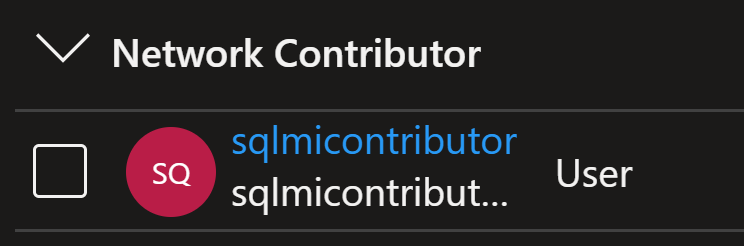
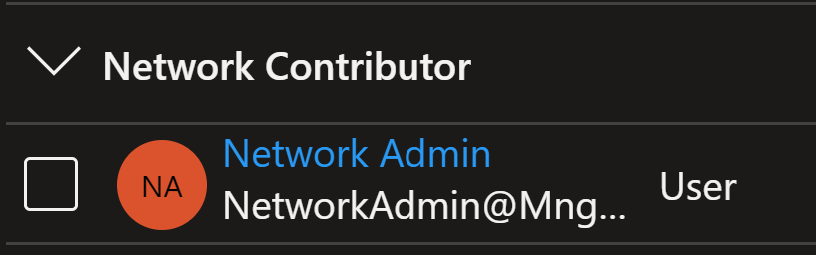
deployworking

diff --git a/README.md b/README.md
@@ -22,19 +22,15 @@ Create a user-assigned managed identity in a Resource group
 
 EngineeringOpsAdmin Creates Resource group for SQL MI vNet (if not already exists) and Resource group to SQL MI instance (if not already exists)
 
-`Note I use a single user for all role assignment but these would typically be different users`
-
-- EngineeringOpsAdmin adds a role assignment of “SQL Managed Instance Contributor” in the SQL MI vNet Resource group and selects the EngineeringOps user performing the deployment
+- EngineeringOpsAdmin adds a role assignment of “SQL Managed Instance Contributor” in the SQL MI vNet Resource group (i.e. ContosoAzureEastUSsqlmiVNetTest3ContosoAzureEastUSsqlmiVNetTest3) and selects the EngineeringOps user performing the deployment
 
 ![smicontributor](https://raw.githubusercontent.com/DataSnowman/sqlmideployment/main/images/smicontributor.png)
 
-- EngineeringOpsAdmin adds a role assignment of “Contributor” or maybe "Network Contributor" in the SQL MI vNet Resource group and selects the NetworkAdmin user performing the vNet deployment
-
-![contributor](https://raw.githubusercontent.com/DataSnowman/sqlmideployment/main/images/contributor.png)
+- EngineeringOpsAdmin adds a role assignment of "Network Contributor" in the SQL MI vNet Resource group (i.e. ContosoAzureEastUSsqlmiVNetTest3ContosoAzureEastUSsqlmiVNetTest3) and selects the NetworkAdmin user performing the vNet deployment
 
 ![netcontributor](https://raw.githubusercontent.com/DataSnowman/sqlmideployment/main/images/netcontributor.png)
 
-- EngineeringOpsAdmin adds a role assignment of “SQL Managed Instance Contributor” in the SQL MI instance Resource group and selects the EngineeringOps user performing the deployment
+- EngineeringOpsAdmin adds a role assignment of “SQL Managed Instance Contributor” in the SQL MI instance Resource group (i.e. DevContosoAzureEastUSsqlmiTest3) and selects the EngineeringOps user performing the deployment
 
 ![smicontributor](https://raw.githubusercontent.com/DataSnowman/sqlmideployment/main/images/smicontributor.png)
 
@@ -87,9 +83,22 @@ az network vnet subnet update --name $subnet --network-security-group $nsg --rou
 
 ```
 
-### DatabaseAdmin provides a CLI script to the EngineeringOps to create SQL MI network instance in the SQL MI instance Resource group
+Once the Network deploys the resources for SQL Managed Instance it should look like this: 
+
+![ContosoAzureEastUSsqlmiVNetTest3](https://raw.githubusercontent.com/DataSnowman/sqlmideployment/main/images/ContosoAzureEastUSsqlmiVNetTest3rg.png)
+
+
+### DatabaseAdmin provides a CLI script to the EngineeringOps to create SQL MI instance in the SQL MI instance Resource group
 
 Use a Azure CLI script [4-CreateSQLMIinstance.sh](https://github.com/DataSnowman/sqlmideployment/blob/main/scripts/cli/4-CreateSQLMIinstance.sh) or (PowerShell, portal, etc.) 
+
+NOTE THIS SCRIPT NEEDS SOME WORK but works in CLI cut and pasted into CMD (It does not work as a bash shell currently)
+
+```
+az sql mi create -g DevContosoAzureEastUSsqlmiTest3 -n sqlmitest3 -l eastus -i -u adminuser -p Astr0ng15charP@ssword --license-type BasePrice --subnet /subscriptions/<subscriptionIDHere>/resourceGroups/ContosoAzureEastUSsqlmiVNetTest3/providers/Microsoft.Network/virtualNetworks/ContosoAzureEastUSsqlmiVNetTest3/subnets/DevelopmentSQLMIsubnetTest3 --capacity 4 --storage 32GB --edition GeneralPurpose --family Gen5 --tags Environment=DevelopmentSQLMI
+```
+
+## fix from here
 
 [Create an Azure SQL Managed Instance with a user-assigned managed identity](https://learn.microsoft.com/en-us/azure/azure-sql/managed-instance/authentication-azure-ad-user-assigned-managed-identity-create-managed-instance?view=azuresql&tabs=azure-cli)
 
